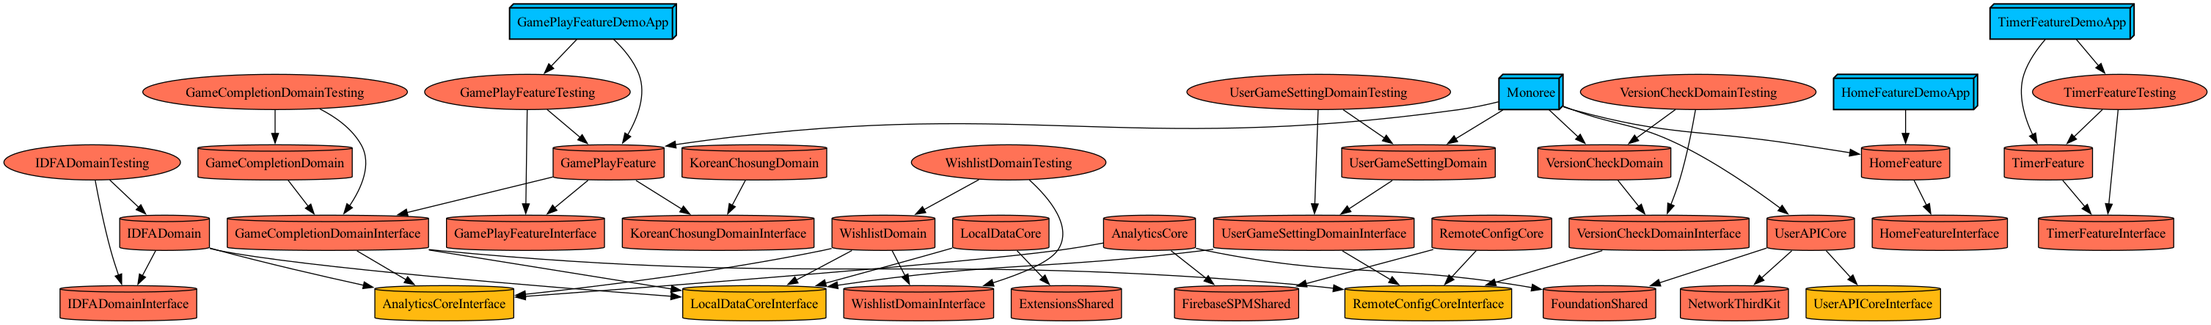
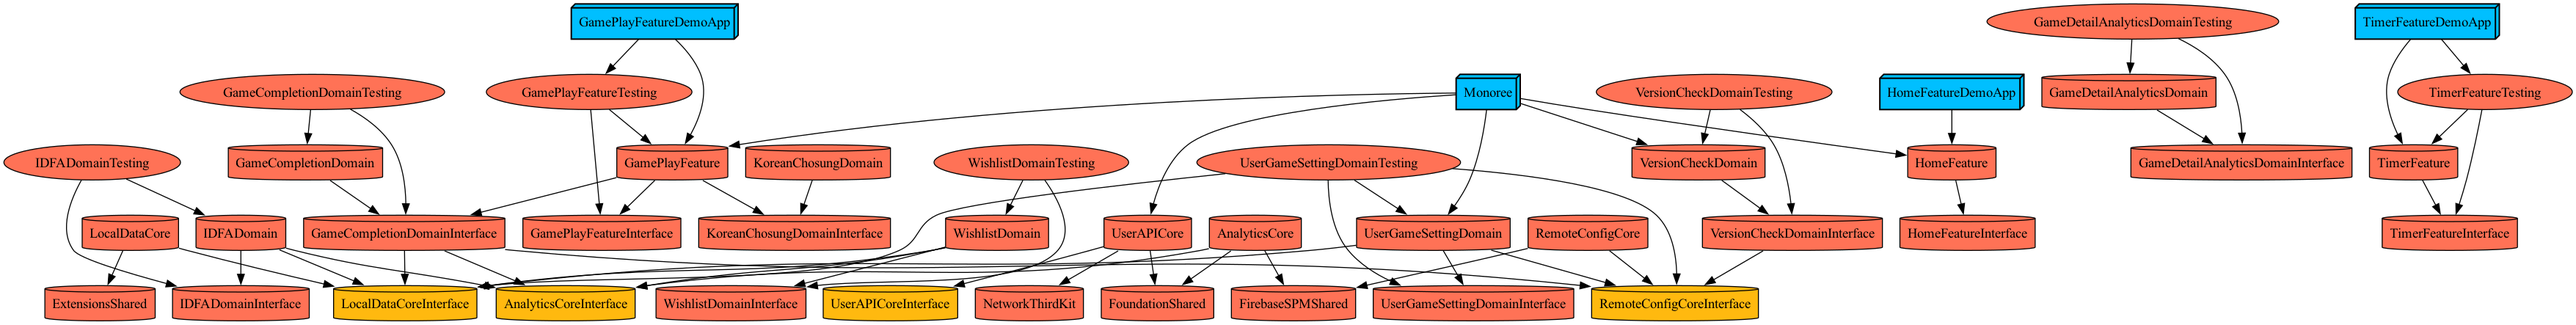
[#79] 도메인 모듈 구성

diff --git a/Projects/Domain/GameDetailAnalyticsDomain/Project.swift b/Projects/Domain/GameDetailAnalyticsDomain/Project.swift
@@ -1,0 +1,32 @@
+import ProjectDescription
+import ProjectDescriptionHelpers
+
+let project = Project.module(
+    name: DomainModule.GameDetailAnalyticsDomain.name,
+    settings: .Module.default,
+    targets: [
+        .interface(
+            domain: .GameDetailAnalyticsDomain,
+            dependencies: []
+        ),
+        .implementation(
+            domain: .GameDetailAnalyticsDomain,
+            dependencies: [
+                .domain(target: .GameDetailAnalyticsDomain, type: .interface),
+            ]
+        ),
+        .testing(
+            domain: .GameDetailAnalyticsDomain,
+            dependencies: [
+                .domain(target: .GameDetailAnalyticsDomain, type: .interface),
+            ]
+        ),
+        .tests(
+            domain: .GameDetailAnalyticsDomain,
+            dependencies: [
+                .domain(target: .GameDetailAnalyticsDomain, type: .implementation),
+                .domain(target: .GameDetailAnalyticsDomain, type: .testing),
+            ]
+        ),
+    ]
+)

diff --git a/Projects/Domain/GameDetailAnalyticsDomain/Tests/GameDetailAnalyticsDomainTest.swift b/Projects/Domain/GameDetailAnalyticsDomain/Tests/GameDetailAnalyticsDomainTest.swift
@@ -1,0 +1,8 @@
+import Testing
+
+struct GameDetailAnalyticsDomainTests {
+    @Test func example() async throws {
+        // Write your test here and use APIs like
+        // `#expect(...)` to check expected conditions.
+    }
+}

diff --git a/Tuist/ProjectDescriptionHelpers/Modules/DomainModule.swift b/Tuist/ProjectDescriptionHelpers/Modules/DomainModule.swift
@@ -1,6 +1,7 @@
 import ProjectDescription
 
 public enum DomainModule: String, CaseIterable {
+	case GameDetailAnalyticsDomain
 	case UserGameSettingDomain
 	case WishlistDomain
 	case IDFADomain

diff --git a/Projects/Domain/GameDetailAnalyticsDomain/Sources/Sources.swift b/Projects/Domain/GameDetailAnalyticsDomain/Sources/Sources.swift
@@ -1,0 +1,1 @@
+// Implementation module source code

diff --git a/Projects/Domain/GameDetailAnalyticsDomain/Interface/Interface.swift b/Projects/Domain/GameDetailAnalyticsDomain/Interface/Interface.swift
@@ -1,0 +1,1 @@
+// Interface module source code

diff --git a/Projects/Domain/GameDetailAnalyticsDomain/Testing/Testing.swift b/Projects/Domain/GameDetailAnalyticsDomain/Testing/Testing.swift
@@ -1,0 +1,1 @@
+// Testing module source code
